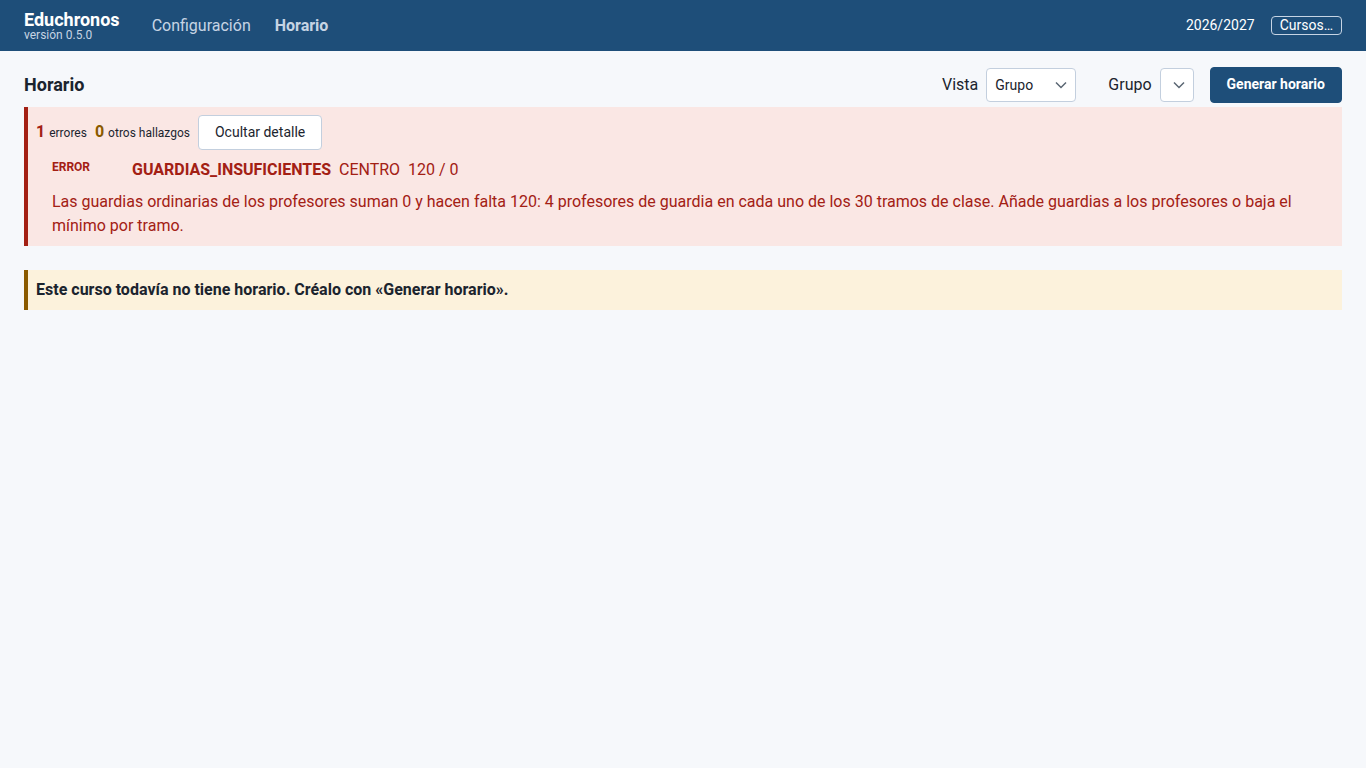
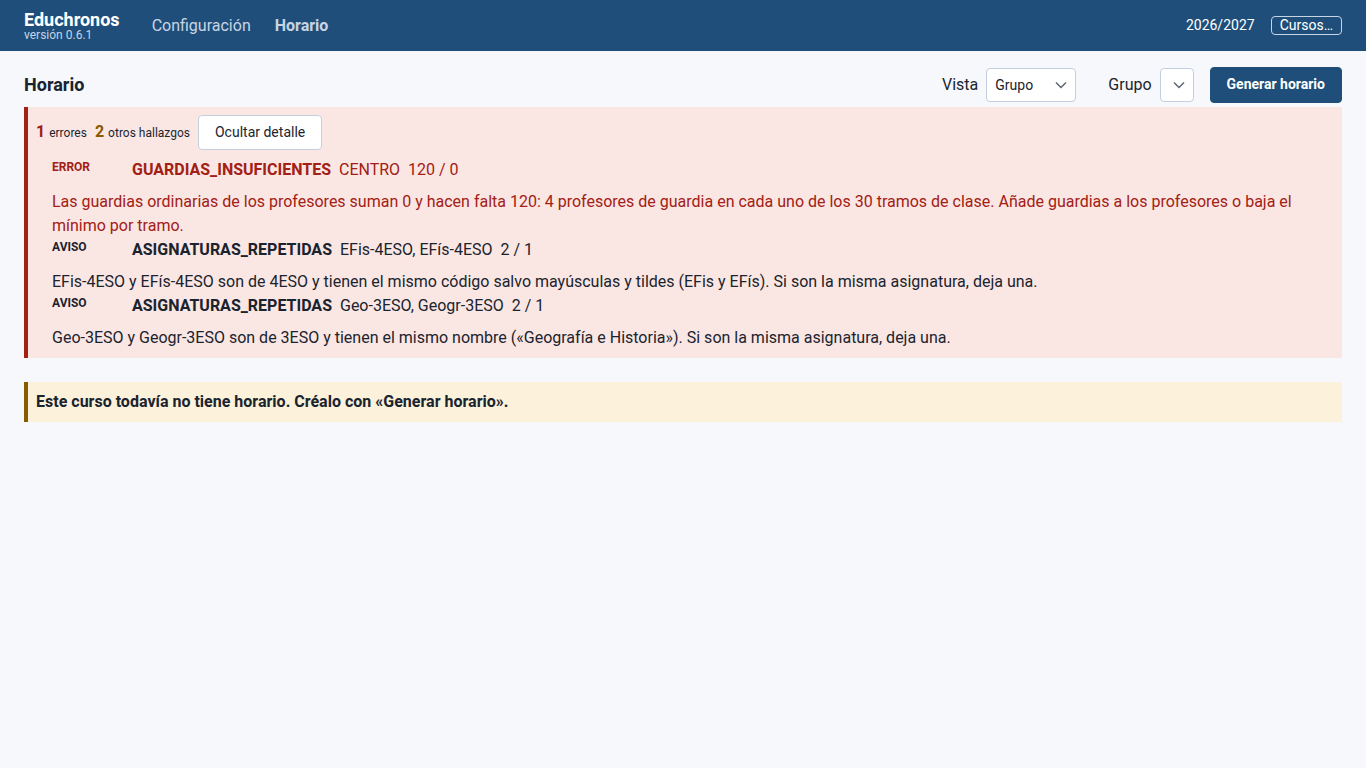
docs: manual de uso de v0.6.1: nivel de las clases, filtro por tipo y avisos de nivel, con las capturas rehechas

Changed region(s): [[0.0, 0.3125, 0.7687, 0.4688], [0.0, 0.5, 0.9839, 0.5625]]

diff --git a/docs/manual/manual.md b/docs/manual/manual.md
@@ -2,7 +2,7 @@
 
 # Educhronos — Manual de uso
 
-**versión 0.5.0** · 20 de octubre de 2026
+**versión 0.6.1** · 25 de octubre de 2026
 
 Para la secretaria del centro y para quien instale Educhronos en el ordenador del centro. Explica,
 tarea por tarea, cómo preparar el curso, generar el horario, ajustarlo y sacarlo en papel.
@@ -44,7 +44,7 @@ tienes que ver estos cuatro elementos:
 - `Educhronos-win.zip.sha256`: sirve para comprobar el zip; no tienes que hacer nada con él.
 - La carpeta `base-partida`: dentro lleva un único fichero terminado en `.db` (y otro que acaba en
   `.md5`, que no se toca).
-- `Educhronos-manual-0.5.0.pdf`: este manual.
+- `Educhronos-manual-0.6.1.pdf`: este manual.
 
 Si falta alguno, no sigas: avisa. Si hay otras carpetas, no las uses.
 
@@ -139,7 +139,7 @@ Educhronos no se abre. Cierra el otro programa o, si no sabes cuál es, avisa.
 
 ## Ver qué versión tienes
 
-Debajo de la marca Educhronos, arriba a la izquierda, pone «versión 0.5.0». Es lo primero que
+Debajo de la marca Educhronos, arriba a la izquierda, pone «versión 0.6.1». Es lo primero que
 tienes que decir si avisas de un fallo.
 
 ## Cerrar
@@ -165,7 +165,7 @@ pestaña del navegador si la has cerrado.
 
 Siempre está a la vista, en todas las pantallas. De izquierda a derecha:
 
-- **La marca** Educhronos, con la línea «versión 0.5.0» debajo. Si haces clic en la marca, vuelves
+- **La marca** Educhronos, con la línea «versión 0.6.1» debajo. Si haces clic en la marca, vuelves
   a la portada.
 - **«Configuración»**: todo lo que el horario necesita saber del centro.
 - **«Horario»**: ver, ajustar y sacar el horario.
@@ -318,8 +318,12 @@ La baja no está hecha hasta que lo borras.
 
 # 7. Clases
 
-**Dónde se hace.** «Configuración» › «Actividades». Cada fila es una clase: su código, su
-asignatura, sus «Repeticiones» a la semana y cuántas plazas tiene.
+**Dónde se hace.** «Configuración» › «Actividades». Cada fila es una clase, una reunión o una
+función: su código, su «Tipo», su asignatura, sus «Repeticiones» a la semana y cuántas plazas tiene.
+
+Cada asignatura es de un nivel, y su código lo lleva: «LAT-4ESO» es el Latín de 4ESO. Las
+asignaturas que se daban en varios niveles se partieron, al pasar a esta versión, en una por nivel,
+con el mismo nombre.
 
 ## Encontrar las clases de un grupo o de una asignatura
 
@@ -328,19 +332,24 @@ Escribe en la caja de búsqueda, arriba a la derecha:
 - **El código de un grupo**, por ejemplo 4ºC. Debajo de la caja sale «Actividades del grupo 4ºC» y
   la lista enseña solo sus clases.
 - **El código o el nombre de una asignatura**, por ejemplo Latín. Sale «Actividades de la
-  asignatura Latín (LAT)», y las de otras asignaturas que se llamen igual.
+  asignatura Latín (LAT-4ESO)» y, a continuación, las otras asignaturas que se llaman Latín, una por
+  nivel.
 - **El código de un profesor**, como en la sección 6.
 
 Si lo que escribes no es exactamente un código o un nombre, la lista enseña las clases que lo
 contienen en alguna de sus columnas.
 
+Para ver solo las clases, solo las reuniones o solo las funciones, elige el tipo en el desplegable
+de debajo de la caja, que empieza en «Todos los tipos». El tipo y la búsqueda se aplican a la vez.
+
 ![Buscando 4ºC: las clases del grupo.](capturas/16-actividades-4C.png)
 
-![Buscando Latín: las clases de las asignaturas que se llaman Latín.](capturas/17-actividades-latin.png)
+![Buscando Latín: las clases de las asignaturas que se llaman Latín, una por nivel.](capturas/17-actividades-latin.png)
 
 ## Cambiar las horas a la semana, el profesor o el aula
 
-1. Pulsa «Editar» en la fila de la clase. Sale «Editar actividad».
+1. Pulsa «Editar» en la fila de la clase. Sale «Editar actividad». En «Nivel» está el nivel de la
+   clase, que Educhronos saca de sus subgrupos.
 2. Cambia lo que haga falta:
    - **Las horas a la semana**: «Repeticiones por semana». «Duración (tramos)» es cuántos tramos
      seguidos dura cada vez.
@@ -352,9 +361,24 @@ contienen en alguna de sus columnas.
 Si la clase tiene varias plazas (varios profesores o varias aulas a la vez), cada una tiene su
 pestaña bajo «Plazas».
 
-![La ficha de la clase LAT-4ºC.](capturas/18-actividad-lat-4C.png)
+Las listas de asignaturas y de subgrupos enseñan solo las del nivel de la clase, y cada asignatura
+se ve con su código y su nombre, como «LAT-4ESO — Latín». Si necesitas una de otro nivel, marca
+«Mostrar todos los niveles». Si los subgrupos de la clase son de varios niveles, o de ninguno,
+«Nivel» sale vacío y esa casilla, marcada; la pre-validación avisa de los de varios niveles
+(sección 8).
+
+![La ficha de la clase LAT-4ºC, con su nivel.](capturas/18-actividad-lat-4C.png)
 
 **Atención:** en un curso con horario generado, las clases no se pueden cambiar (sección 9).
+
+## Crear una clase nueva
+
+1. Pulsa «Nueva actividad». Lo primero es elegir el «Nivel»: hasta que lo eliges, las listas de
+   asignaturas y de subgrupos salen vacías, con el aviso «Elige primero el nivel.»
+2. Rellena lo demás como al cambiar una clase (arriba).
+3. Pulsa «Guardar».
+
+Una reunión o una función no tiene nivel: si la eliges en «Tipo», no lo pide.
 
 # 8. Antes de generar: el panel de pre-validación
 
@@ -368,7 +392,7 @@ horario. Créalo con «Generar horario».» si el curso aún no tiene horario).
 su contrario lo pliegas o despliegas. Cada línea dice su gravedad (ERROR u otra), qué regla falla,
 a quién afecta y una frase que explica qué pasa y qué hacer.
 
-![El panel en un curso recién preparado: un ERROR de guardias.](capturas/23-horario-sin-generar.png)
+![El panel en un curso recién preparado: un ERROR de guardias y dos avisos de asignaturas repetidas.](capturas/23-horario-sin-generar.png)
 
 **Qué hacer con un error.** Lee la frase de la línea y corrige lo que dice. Un ejemplo real, el que
 da la base de partida: la línea de guardias dice «Añade guardias a los profesores o baja el mínimo
@@ -377,6 +401,12 @@ de cada profesor (sección 6) o baja el «Mínimo de profesores de guardia por t
 «Horario», el panel se actualiza.
 
 Los hallazgos que no son ERROR no impiden generar, pero conviene leerlos.
+
+**Avisos de nivel.** El panel avisa también, sin impedir generar, de tres cosas: una clase con
+subgrupos de varios niveles; una clase que usa una asignatura de otro nivel; y dos asignaturas del
+mismo nivel con el mismo nombre, o con el mismo código salvo mayúsculas y tildes. La base de partida
+trae dos de estas últimas, una en 3ESO y otra en 4ESO, y su línea termina con «Si son la misma
+asignatura, deja una.» Si no sabes si lo son, déjalas como están: el aviso no impide generar. Si hay alguno, la ventana de confirmar la generación también los lista, bajo «Avisos (no impiden generar)».
 
 **Atención:** con un ERROR en el panel, la generación no sale. La ventana de confirmación lo dice
 («Además, el servidor rechazará esta generación.») y su botón cambia a «Generar de todos modos».
@@ -509,7 +539,7 @@ Edge: <!-- sin-comprobar -->«Le damos la bienvenida a Microsoft Edge, el explor
 3. Al terminar ves la portada de Educhronos. Si el navegador ha abierto otras pestañas suyas,
    puedes cerrarlas.
 
-<!-- Manual de uso de Educhronos 0.5.0 (S242, O-manual, C-alcance-manual). Las citas entre
+<!-- Manual de uso de Educhronos 0.6.1 (S242, O-manual, C-alcance-manual; al día con 0.6.1 en S252). Las citas entre
      comillas angulares las comprueba tools/manual/capturas.mjs contra la aplicación; las de Windows,
      la ventana de arranque, la bandeja e Instalar.cmd van entre las marcas sin-comprobar. La
      sección 13, Si algo no va bien, es docs/guia-incidencias.md, que tools/manual/generar-pdf.sh
